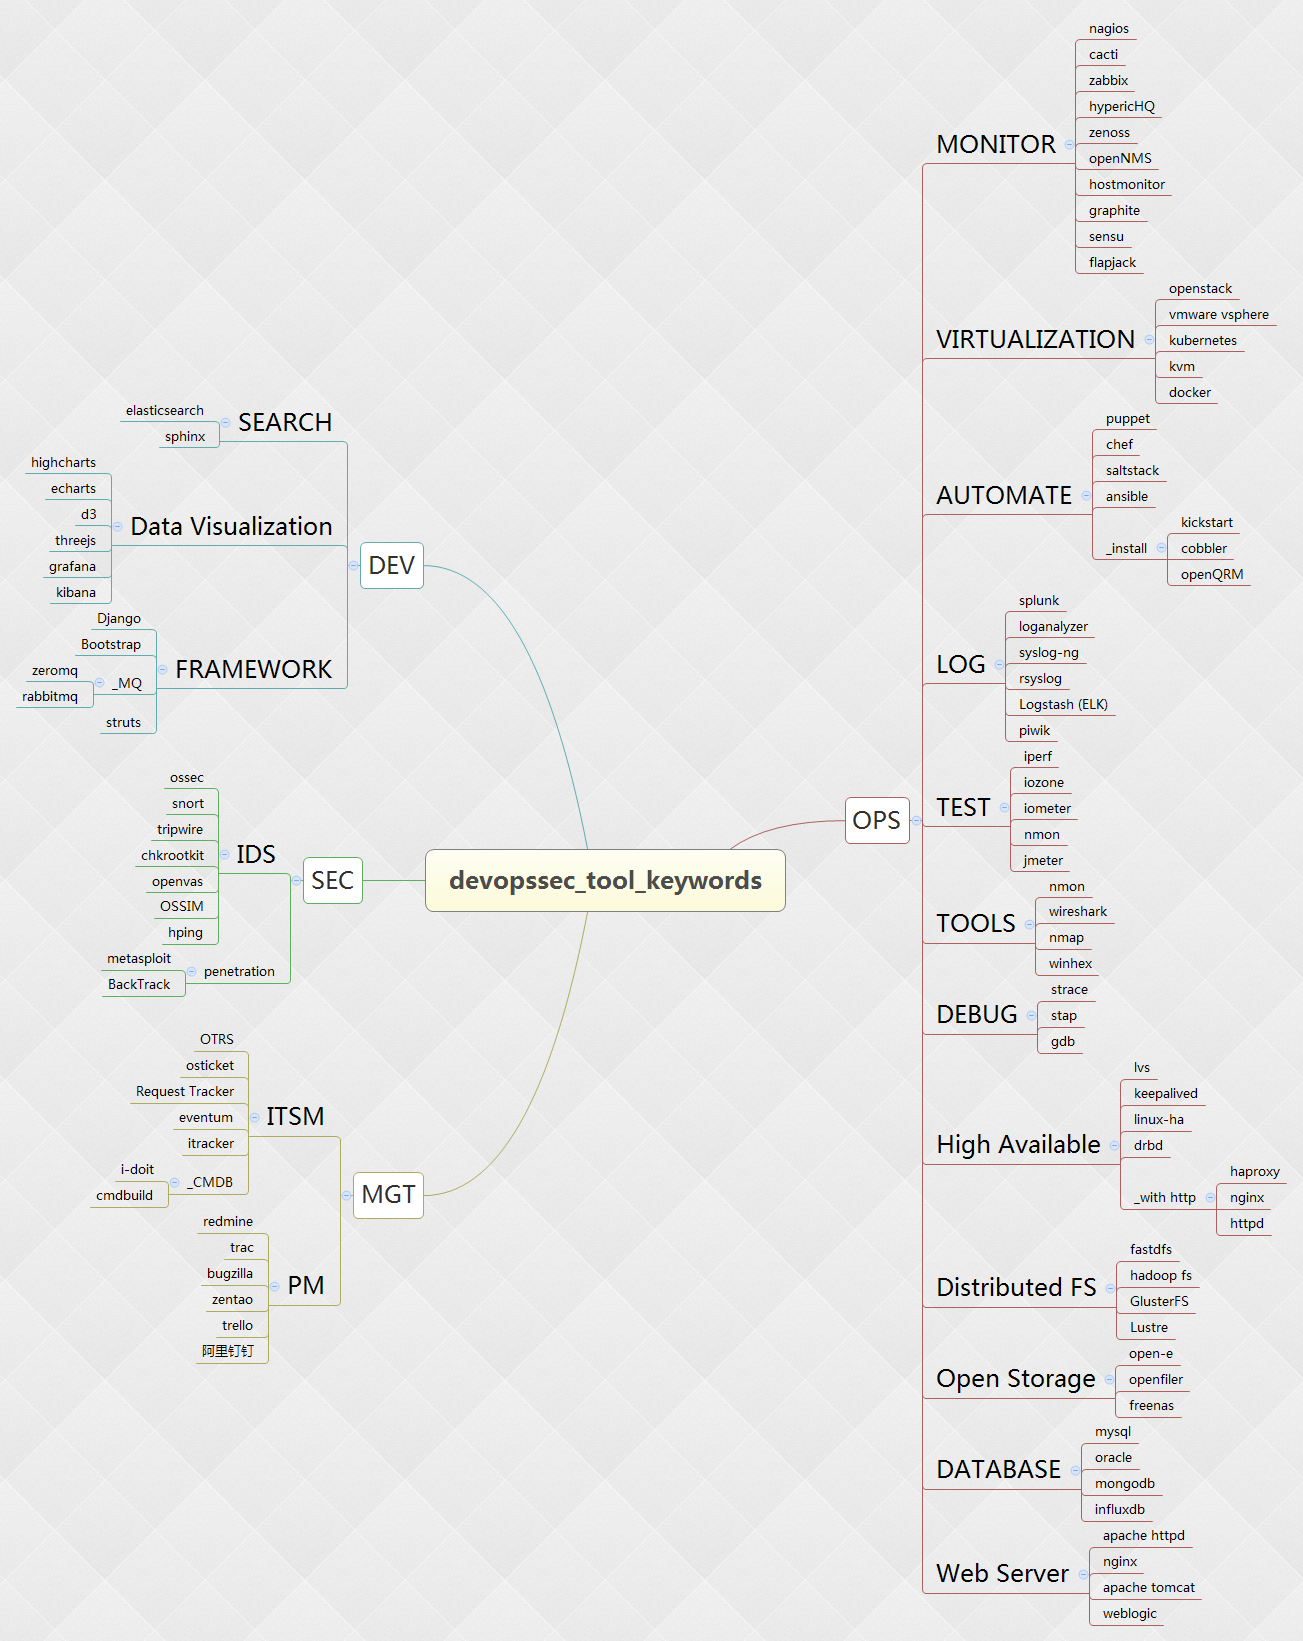
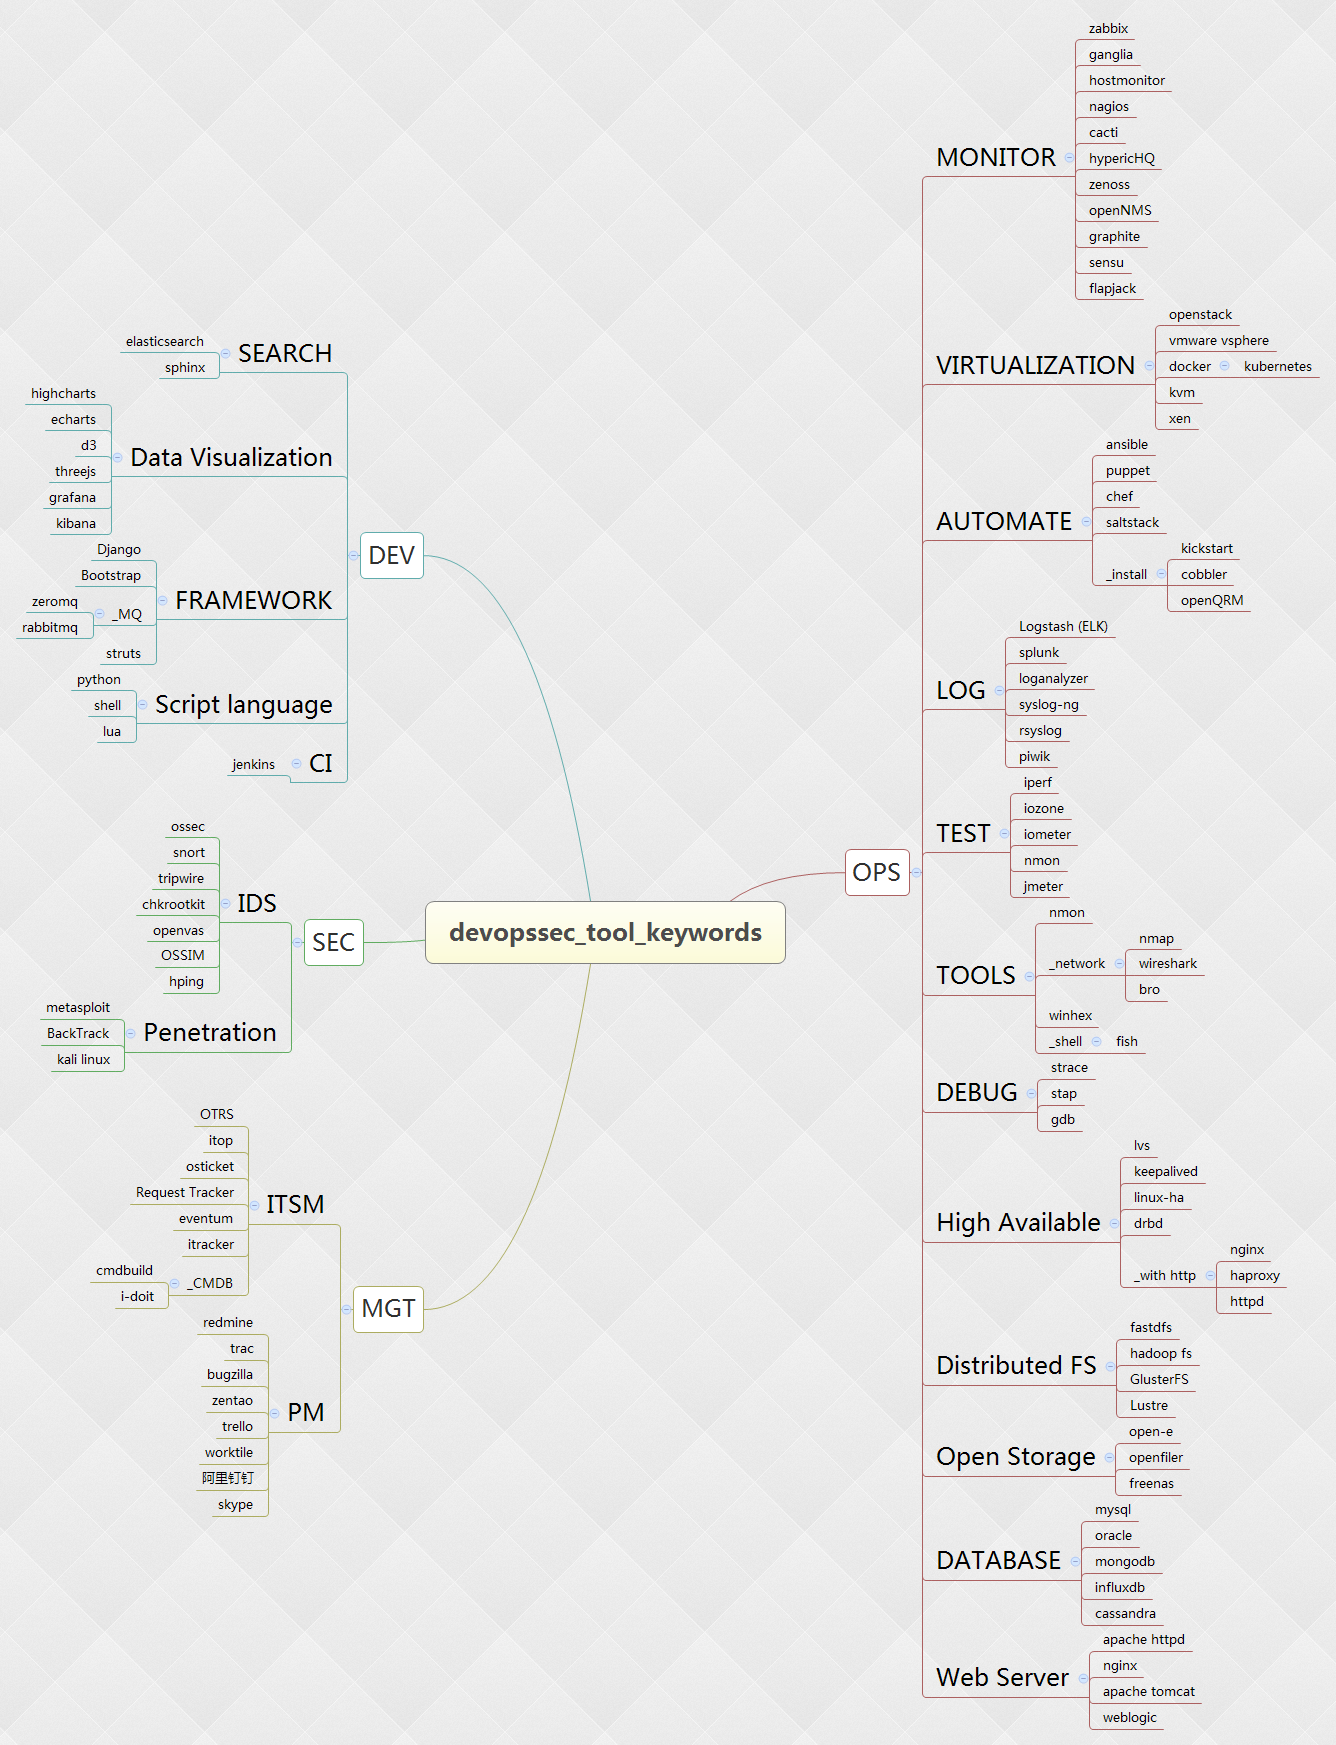
update

diff --git a/devopssec_tool_keywords.html b/devopssec_tool_keywords.html
@@ -18,13 +18,19 @@
 <a name="4klqcba9g3ccp7fhhhomgaugh6">&nbsp;MONITOR</a>
 </h3>
 <h3 class="topic">
+<a name="13077c73tme257ufqmdlvdsdbu">&nbsp;&nbsp;zabbix</a>
+</h3>
+<h3 class="topic">
+<a name="3mvnaltulqpj6iacbne5phmfjs">&nbsp;&nbsp;ganglia</a>
+</h3>
+<h3 class="topic">
+<a name="4n5m9557mll8ibq2sq1raie6ns">&nbsp;&nbsp;hostmonitor</a>
+</h3>
+<h3 class="topic">
 <a name="1cg096hcabv08567uju02uk5tn">&nbsp;&nbsp;nagios</a>
 </h3>
 <h3 class="topic">
 <a name="6ug698sg5p5vc1he9v8a3lpjfp">&nbsp;&nbsp;cacti</a>
-</h3>
-<h3 class="topic">
-<a name="13077c73tme257ufqmdlvdsdbu">&nbsp;&nbsp;zabbix</a>
 </h3>
 <h3 class="topic">
 <a name="6k8od61euaf083ehdgvmmvhsdq">&nbsp;&nbsp;hypericHQ</a>
@@ -34,9 +40,6 @@
 </h3>
 <h3 class="topic">
 <a name="7eqscgh9npe4sufliq1h5m2scf">&nbsp;&nbsp;openNMS</a>
-</h3>
-<h3 class="topic">
-<a name="4n5m9557mll8ibq2sq1raie6ns">&nbsp;&nbsp;hostmonitor</a>
 </h3>
 <h3 class="topic">
 <a name="4g75n2qb16nu0ke7ve6993fs31">&nbsp;&nbsp;graphite</a>
@@ -57,16 +60,22 @@
 <a name="3vrkj435023i41a5bqlo3fb5h6">&nbsp;&nbsp;vmware vsphere</a>
 </h3>
 <h3 class="topic">
-<a name="66g7eaq00ies9eunue7uv36fea">&nbsp;&nbsp;kubernetes</a>
+<a name="4us7hmgaj6at703q4ip71jpmr7">&nbsp;&nbsp;docker</a>
+</h3>
+<h3 class="topic">
+<a name="66g7eaq00ies9eunue7uv36fea">&nbsp;&nbsp;&nbsp;kubernetes</a>
 </h3>
 <h3 class="topic">
 <a name="2kg73gor5k87nbs8ig8mdpju78">&nbsp;&nbsp;kvm</a>
 </h3>
 <h3 class="topic">
-<a name="4us7hmgaj6at703q4ip71jpmr7">&nbsp;&nbsp;docker</a>
+<a name="5ecif0qf3sj80bnqbmk017cdqh">&nbsp;&nbsp;xen</a>
 </h3>
 <h3 class="topic">
 <a name="03j383kmmnmg980289d64ni1ne">&nbsp;AUTOMATE</a>
+</h3>
+<h3 class="topic">
+<a name="28k6h2kkr9q7e0cvvkbr4avdjq">&nbsp;&nbsp;ansible</a>
 </h3>
 <h3 class="topic">
 <a name="13thub7dv79otn6f64444gf6s0">&nbsp;&nbsp;puppet</a>
@@ -76,9 +85,6 @@
 </h3>
 <h3 class="topic">
 <a name="1btdeu679f0vugqfkl9ja19m2j">&nbsp;&nbsp;saltstack</a>
-</h3>
-<h3 class="topic">
-<a name="28k6h2kkr9q7e0cvvkbr4avdjq">&nbsp;&nbsp;ansible</a>
 </h3>
 <h3 class="topic">
 <a name="02806pahm01u27gltd66dit8p7">&nbsp;&nbsp;_install</a>
@@ -96,6 +102,9 @@
 <a name="1vl73lmuu084k0t3gtnmif7pt7">&nbsp;LOG</a>
 </h3>
 <h3 class="topic">
+<a name="42u2t9dqfvtfir9s0h990ik50g">&nbsp;&nbsp;Logstash (ELK)</a>
+</h3>
+<h3 class="topic">
 <a name="5ppg9vnsja60osvi8her1o39b3">&nbsp;&nbsp;splunk</a>
 </h3>
 <h3 class="topic">
@@ -106,9 +115,6 @@
 </h3>
 <h3 class="topic">
 <a name="2hfftridt8qbk93ta1jhdd2in3">&nbsp;&nbsp;rsyslog</a>
-</h3>
-<h3 class="topic">
-<a name="42u2t9dqfvtfir9s0h990ik50g">&nbsp;&nbsp;Logstash (ELK)</a>
 </h3>
 <h3 class="topic">
 <a name="3cg8k75s7g70ateouodq4v14vm">&nbsp;&nbsp;piwik</a>
@@ -138,13 +144,25 @@
 <a name="1mobp1k504h1pk70rlisct050n">&nbsp;&nbsp;nmon</a>
 </h3>
 <h3 class="topic">
-<a name="387oqct1srrkemsc4e54o5upio">&nbsp;&nbsp;wireshark</a>
+<a name="2eu53hqbbi46evnptcko3mf2j5">&nbsp;&nbsp;_network</a>
 </h3>
 <h3 class="topic">
-<a name="71u3hoh5krah8ju2qj8qluehoe">&nbsp;&nbsp;nmap</a>
+<a name="71u3hoh5krah8ju2qj8qluehoe">&nbsp;&nbsp;&nbsp;nmap</a>
+</h3>
+<h3 class="topic">
+<a name="387oqct1srrkemsc4e54o5upio">&nbsp;&nbsp;&nbsp;wireshark</a>
+</h3>
+<h3 class="topic">
+<a name="3ejeitpre8uo489svvgl2beq3v">&nbsp;&nbsp;&nbsp;bro</a>
 </h3>
 <h3 class="topic">
 <a name="0upftnb36vcju7lr6p23gi9k58">&nbsp;&nbsp;winhex</a>
+</h3>
+<h3 class="topic">
+<a name="2v5fqp5qf74lsa54tb5h963onc">&nbsp;&nbsp;_shell</a>
+</h3>
+<h3 class="topic">
+<a name="7dk9juehd62soeosn0pidajpao">&nbsp;&nbsp;&nbsp;fish</a>
 </h3>
 <h3 class="topic">
 <a name="25lc3pdhu2fqplg56bpnbaoadb">&nbsp;DEBUG</a>
@@ -177,10 +195,10 @@
 <a name="3h2ndiff194eu1nr702cuq8j1g">&nbsp;&nbsp;_with http</a>
 </h3>
 <h3 class="topic">
-<a name="6m45efvkta35f70c5g1elvad5j">&nbsp;&nbsp;&nbsp;haproxy</a>
+<a name="2m2379kro75638elubaaubpnig">&nbsp;&nbsp;&nbsp;nginx</a>
 </h3>
 <h3 class="topic">
-<a name="2m2379kro75638elubaaubpnig">&nbsp;&nbsp;&nbsp;nginx</a>
+<a name="6m45efvkta35f70c5g1elvad5j">&nbsp;&nbsp;&nbsp;haproxy</a>
 </h3>
 <h3 class="topic">
 <a name="61dvnmbq7kpg00p3boak54la0l">&nbsp;&nbsp;&nbsp;httpd</a>
@@ -228,6 +246,9 @@
 <a name="7jr7ebg1n9nqgurjkbb1p3uv09">&nbsp;&nbsp;influxdb</a>
 </h3>
 <h3 class="topic">
+<a name="3gkhip88qq0j8rtd4ujdeutatf">&nbsp;&nbsp;cassandra</a>
+</h3>
+<h3 class="topic">
 <a name="30cb8bsh5evtnlkhmh9dgvt58a">&nbsp;Web Server</a>
 </h3>
 <h3 class="topic">
@@ -252,6 +273,9 @@
 <a name="65i8jmb6jrqj34f7ls72b2qe3o">&nbsp;&nbsp;OTRS</a>
 </h3>
 <h3 class="topic">
+<a name="5g6sd34bl244lqs2psta9snqlr">&nbsp;&nbsp;itop</a>
+</h3>
+<h3 class="topic">
 <a name="3ptgis9deiovt6ev31os1mjnl6">&nbsp;&nbsp;osticket</a>
 </h3>
 <h3 class="topic">
@@ -267,10 +291,10 @@
 <a name="0mu01gm4tctiuvdclgli7bod81">&nbsp;&nbsp;_CMDB</a>
 </h3>
 <h3 class="topic">
-<a name="6gseu80qcnj5c5b93l7s3udm0k">&nbsp;&nbsp;&nbsp;i-doit</a>
+<a name="0i7odahappfubrdc2kj75fflu1">&nbsp;&nbsp;&nbsp;cmdbuild</a>
 </h3>
 <h3 class="topic">
-<a name="0i7odahappfubrdc2kj75fflu1">&nbsp;&nbsp;&nbsp;cmdbuild</a>
+<a name="6gseu80qcnj5c5b93l7s3udm0k">&nbsp;&nbsp;&nbsp;i-doit</a>
 </h3>
 <h3 class="topic">
 <a name="24seop3s3o01hs2jcopkomcsmh">&nbsp;PM</a>
@@ -291,7 +315,13 @@
 <a name="5nh9e3pvb2v8pbeuhe1gub2b93">&nbsp;&nbsp;trello</a>
 </h3>
 <h3 class="topic">
+<a name="1o3okdihpr2tnp5nrt9lbnhnap">&nbsp;&nbsp;worktile</a>
+</h3>
+<h3 class="topic">
 <a name="7ct7qro23ba12p1b2dvt2f9ujs">&nbsp;&nbsp;阿里钉钉</a>
+</h3>
+<h3 class="topic">
+<a name="53hb3qppmc1b2a9cfgs64s6fu5">&nbsp;&nbsp;skype</a>
 </h3>
 <h2 class="topic">
 <a name="1ri2k6scqco3k9q1h3sval5ekb">SEC</a>
@@ -321,13 +351,16 @@
 <a name="79gdb7j8p1sstkjk951s7buogb">&nbsp;&nbsp;hping</a>
 </h3>
 <h3 class="topic">
-<a name="2i81i212a6utfcbvcl68ngq4i0">&nbsp;penetration</a>
+<a name="2i81i212a6utfcbvcl68ngq4i0">&nbsp;Penetration</a>
 </h3>
 <h3 class="topic">
 <a name="2rq5amc5l9qte7hb7jcqk2nj5u">&nbsp;&nbsp;metasploit</a>
 </h3>
 <h3 class="topic">
 <a name="0d1o7ce8l4q6l862iuobusugbs">&nbsp;&nbsp;BackTrack</a>
+</h3>
+<h3 class="topic">
+<a name="7k8k055adale4p8t734jmfbbld">&nbsp;&nbsp;kali linux</a>
 </h3>
 <h2 class="topic">
 <a name="78kg0ko4qc0nbkt04hec82tfqm">DEV</a>
@@ -382,6 +415,24 @@
 </h3>
 <h3 class="topic">
 <a name="3d0b3rngkqkrpe2b4nja245rii">&nbsp;&nbsp;struts</a>
+</h3>
+<h3 class="topic">
+<a name="7fvtdcnghq6jkvmmvu6ape848a">&nbsp;Script language</a>
+</h3>
+<h3 class="topic">
+<a name="07ujot0pv4p348anr3msi4kn2j">&nbsp;&nbsp;python</a>
+</h3>
+<h3 class="topic">
+<a name="386f9lihib3mtv88eprioqcs6n">&nbsp;&nbsp;shell</a>
+</h3>
+<h3 class="topic">
+<a name="69p45an4ararde4r7h91fkrdki">&nbsp;&nbsp;lua</a>
+</h3>
+<h3 class="topic">
+<a name="2bjjarj94sop2b6piad43h4nvu">&nbsp;CI</a>
+</h3>
+<h3 class="topic">
+<a name="2lvqm2e2j08jmu5dmpho87k6pb">&nbsp;&nbsp;jenkins</a>
 </h3>
 </body>
 </html>
